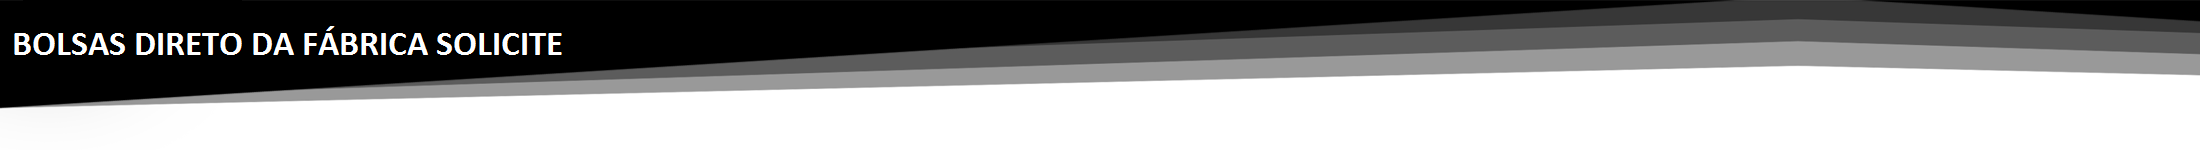
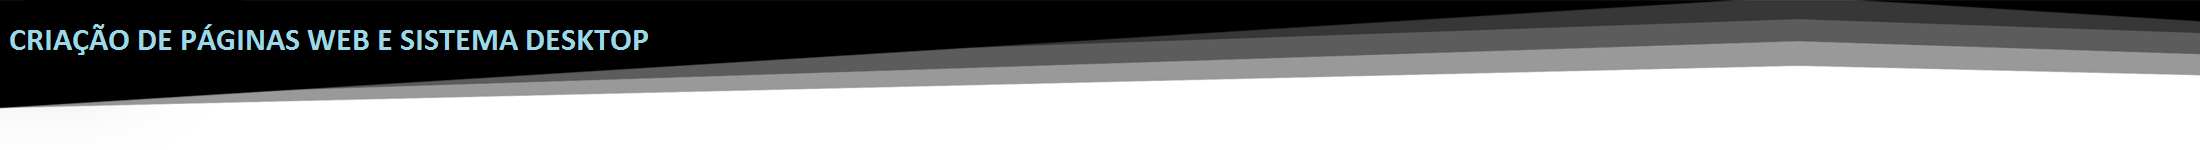
Atualização da tela index.php para venda de bolsas do ecommerce do pc.

Changed region(s): [[0.0, 0.16, 0.3091, 0.3733]]

diff --git a/index.php b/index.php
@@ -3,7 +3,7 @@
     
     <head>
         <meta charset="utf-8">
-        <title>Rose Bolsas - Adiquira a sua.</title>
+        <title>FREELANCER/DESENVOLVEDOR.</title>
         <meta name="viewport" content="width=device-width, initial-scale=1.0">
         <meta name="description" content="">
         <meta name="author" content="">
@@ -26,16 +26,16 @@
                 <img src="views/img/cabecalho_ecommerce.png"/>
                 <div class="container-fluid">
                     <button type="button" class="btn btn-navbar" data-toggle="collapse" data-target=".nav-collapse"><span class="icon-bar"></span><span class="icon-bar"></span><span class="icon-bar"></span>
-                    </button><a class="brand" href="#">Acompanhe seu(s) pedido(s)</a>
+                    </button><a class="brand" href="#">Solicitar orçamento</a>
                     <div class="nav-collapse collapse">
                         <p class="navbar-text pull-right"><a href="#" class="navbar-link"><b>Registra-se</b></a>
                         </p>
                         <ul class="nav">
-                            <li class="active"><a href="#">Nossos produtos</a>
+                            <li class="active"><a href="#">Acompanhar seu pedido</a>
                             </li>
-                            <li><a href="#about">Chat on-line</a>
+                            <li><a href="#about">Ajuda on-line</a>
                             </li>
-                            <li><a href="#contact">Fale com vendedor</a>
+                            <li><a href="#contact">Fale com o desenvolvedor</a>
                             </li>
                         </ul>
                     </div>
@@ -50,15 +50,13 @@
                             <li class="nav-header">Área do Cliente</li>
                             <li class="active"><a href="#">Entrar</a>
                             </li>                            
-                            <li class="nav-header">Área Administrativa</li>
-                            <li><a href="#">Entrar</a>
-                            </li>
-                            <li><a href="#">Chat on-line</a>
-                            </li>
-                            <li><a href="#">Fale com vendedor</a>
+                            <li class="nav-header">Web Developer</li>
+                            <li><a href="#">Contato</a>
                             </li>
                             <li><a href="#">Telefones</a>
-                            </li>                             
+                            </li>                      
+                            <li><a href="#">Login</a>
+                            </li>  
                         </ul>
                     </div>
                 </div>
@@ -68,55 +66,46 @@
                         <div class="row-fluid">
                         <div class="span4">
                             <h2>Heading</h2>
-                            <p>Bolsa 1.</p>
-                            <p>Valor.</p>
-                            <p><a class="btn-primary" href="#">Comprar &raquo;</a>
+                            <p>Sistema de Cadastro.</p>                           
+                            <p><a class="btn-primary" href="#">Detalhar &raquo;</a>
                             </p>
                         </div>
                         <div class="span4">
                             <h2>Heading</h2>
-                            <p>Bolsa 2.</p>
-                            <p>Valor.</p>
-                            <p><a class="btn-primary" href="#">Comprar &raquo;</a>
+                            <p>Controle de Estoque.</p>                           
+                            <p><a class="btn-primary" href="#">Detalhar &raquo;</a>
                             </p>
                         </div>
                         <div class="span4">
                             <h2>Heading</h2>
-                            <p>Bolsa 3.</p>
-                            <p>Valor.</p>
-                            <p><a class="btn-primary" href="#">Comprar &raquo;</a>
+                            <p>Manutenção de Páginas WEB.</p>                           
+                            <p><a class="btn-primary" href="#">Detalhar &raquo;</a>
                             </p>
                         </div>
                     </div>
                     <div class="row-fluid">
                         <div class="span4">
                             <h2>Heading</h2>
-                            <p>Bolsa 4.</p>
-                            <p>Valor.</p>
-                            <p><a class="btn-primary" href="#">Comprar &raquo;</a>
+                            <p>Manutenção de Sistemas Desktop.</p>                           
+                            <p><a class="btn-primary" href="#">Detalhar &raquo;</a>
                             </p>
                         </div>
                         <div class="span4">
                             <h2>Heading</h2>
-                            <p>Bolsa 5.</p>
-                            <p>Valor.</p>
-                            <p><a class="btn-primary" href="#">Comprar &raquo;</a>
+                            <p>Migração de Dados.</p>                           
+                            <p><a class="btn-primary" href="#">Detalhar &raquo;</a>
                             </p>
                         </div>
                         <div class="span4">
                             <h2>Heading</h2>
-                            <p>Bolsa 6.</p>
-                            <p>Valor.</p>
-                            <p><a class="btn-primary" href="#">Comprar &raquo;</a>
+                            <p>Mala Direta.</p>                           
+                            <p><a class="btn-primary" href="#">Detalhar &raquo;</a>
                             </p>
                         </div>
-                    </div>
-                       
-                    </div>
-                    
+                    </div>                       
+                    </div>                    
                 </div>
             </div>
-            <hr>
             <footer>
                 <!-- Definindo o RODAPÉ da página -->
                 <img src="views/img/curves_01_1.png"/>
@@ -124,9 +113,7 @@
         </div>
         <!-- Le javascript==================================================-->
         <script src="http://cdnjs.cloudflare.com/ajax/libs/jquery/1.9.1/jquery.min.js"></script>
-        <script src="http://cdnjs.cloudflare.com/ajax/libs/twitter-bootstrap/2.3.0/js/bootstrap.js"></script>
-        
+        <script src="http://cdnjs.cloudflare.com/ajax/libs/twitter-bootstrap/2.3.0/js/bootstrap.js"></script>        
      </form>   
     </body>
-
 </html>
